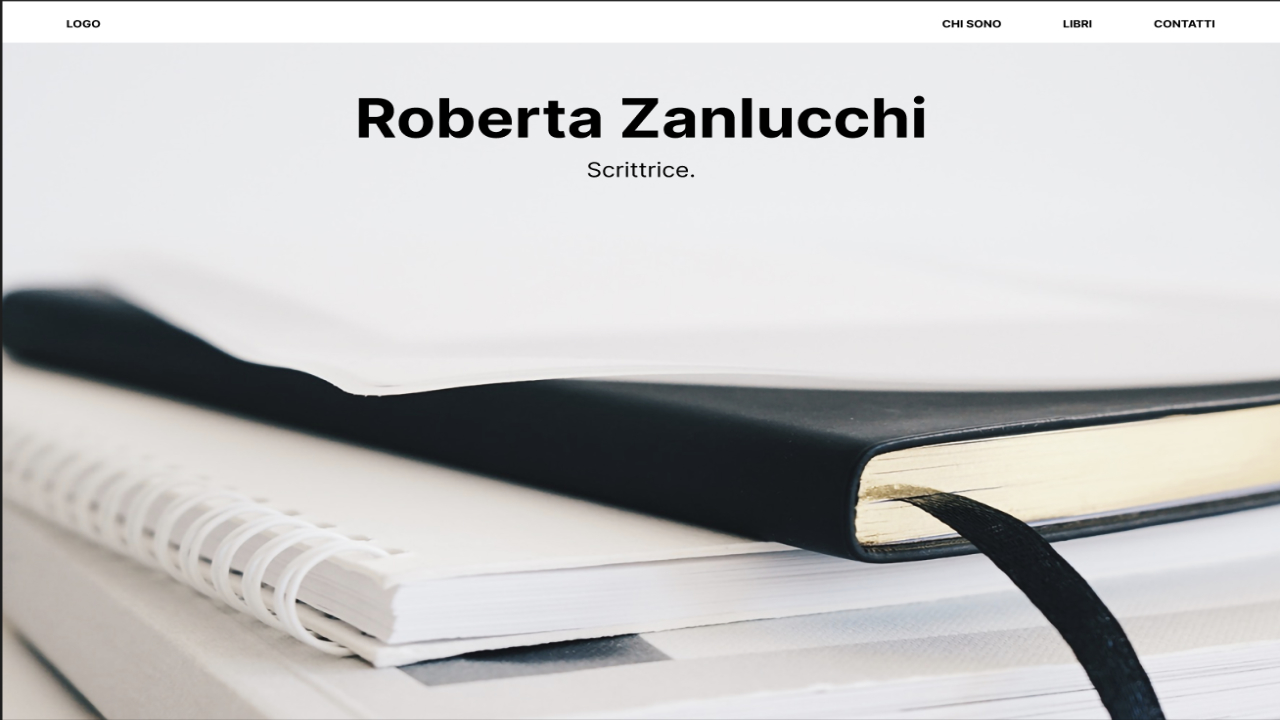
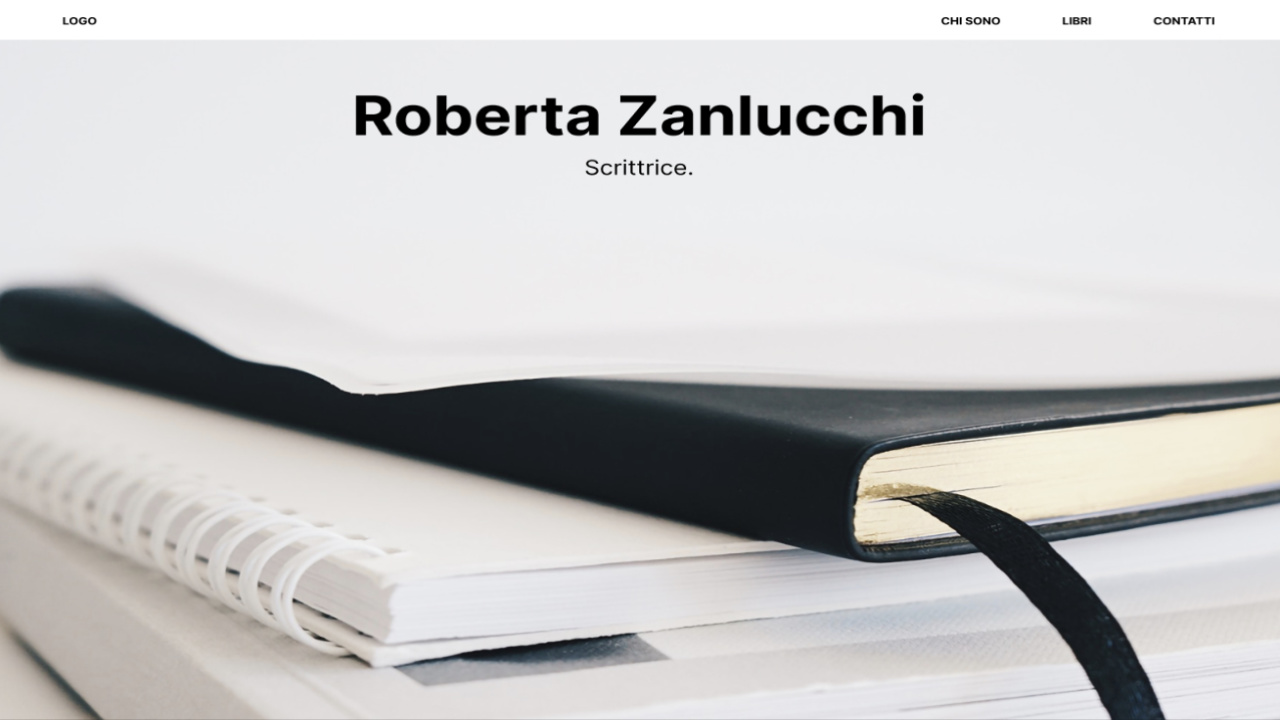
inserted 2 new website

diff --git a/index.html b/index.html
@@ -41,6 +41,7 @@
     <div id="header">
       <h1>Fabrizio Del Tufo Web Portfolio's.</h1><br />
       <p>
+        <a href="https://wewebby.com/en" target="_blank">Web Site</a> |
         <a href="https://github.com/fabriziodeltufo" target="_blank">Git Hub</a> |
         <a href="https://www.linkedin.com/in/fabrizio-del-tufo/" target="_blank">Linkedin</a> |
         <a href="mailto:fabrizio.deltufo@gmail.com">Email</a>
@@ -75,6 +76,50 @@
     <!-- CARD -->
     <div class="portfolio-card">
       <div class="portfolio-title">
+        <h2>PHOTOs | LARAVEL WEB APP</h2>
+        <h3>Photo's Management Demo</h3>
+        <h4>Project Description:</h4>
+        <p>Web Project for managing photographs under authentication using Laravel V10 automation.<br>
+        </p>
+        <h4>Technologies:</h4>
+        <p>Laravel Framework, PHP, Bootstrap, Tailwind.</p>
+        <h4>Link:</h4>
+        <a href=""
+          target="_blank">Photo's Web App</a>
+
+      </div>
+      <div class="portfolio-image">
+        <img class="img-resp" src="./img/screenshot-web/laravel-photos.jpg" alt="photos-laravel-web-app" width="570px"
+          height="325px">
+      </div>
+    </div>
+
+
+    <!-- CARD -->
+    <div class="portfolio-card">
+      <div class="portfolio-title">
+        <h2>ROBERTA ZANLUCCHI - WRITER</h2>
+        <h3>Figma Web Design</h3>
+        <h4>Project Description:</h4>
+        <p>Web Design for a planned Web Site "work in progress" about an Italian writer. Promotion Site for 2 new
+          books.<br>
+        </p>
+        <h4>Technologies:</h4>
+        <p>Figma Web Design Software.</p>
+        <h4>Link:</h4>
+        <a href="https://www.figma.com/proto/baCg0dAeZAkUT3ecxXQkVV/Roberta-Zanlucchi-Web-Design?type=design&node-id=1-2&t=uHR2c0HTmUOHVj2T-1&scaling=scale-down&page-id=0%3A1"
+          target="_blank">Roberta Zanlucchi Web Design</a>
+
+      </div>
+      <div class="portfolio-image">
+        <img class="img-resp" src="./img/screenshot-web/roberta-zanlucchi.jpg" alt="roberta-zanlucchi" width="570px"
+          height="325px">
+      </div>
+    </div>
+
+    <!-- CARD -->
+    <div class="portfolio-card">
+      <div class="portfolio-title">
         <h2>OLTRE</h2>
         <h3>WordPress Web Site</h3>
         <h4>Project Description:</h4>
@@ -84,7 +129,7 @@
         <h4>Technologies:</h4>
         <p>Figma Web Design Software, WordPress. </p>
         <h4>Link:</h4>
-        <a href="https://oltresas.it" target="_blank">Web Site</a>
+        <a href="https://oltresas.it" target="_blank">OLTRE Web Site</a>
 
       </div>
       <div class="portfolio-image">
